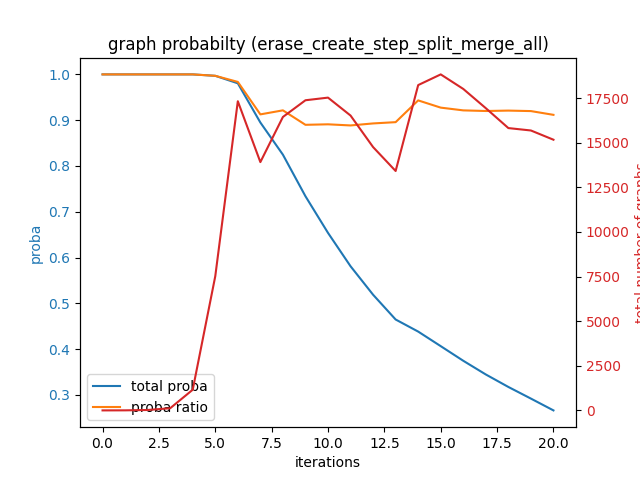
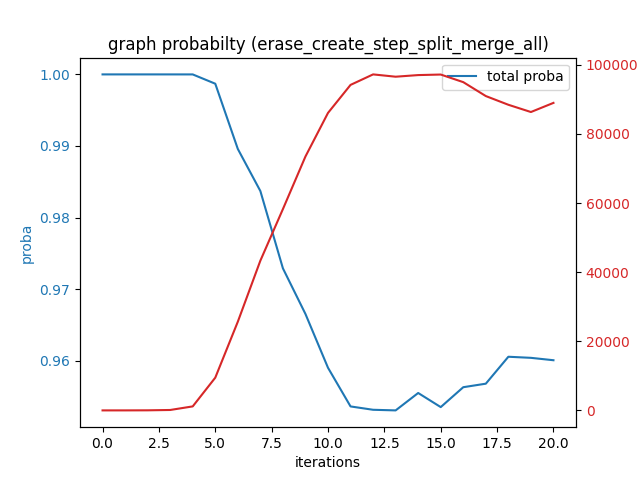
changed the makefile to run program in background

diff --git a/v5/grapher/quantum_grapher.py b/v5/grapher/quantum_grapher.py
@@ -13,7 +13,6 @@ iterations = np.arange(0, n_iterations)
 
 iterations, sizes = np.meshgrid(sizes, iterations)
 
-proba_ratio = np.ones(n_iterations)
 total_proba = np.zeros(n_iterations)
 total_num = np.zeros(n_iterations)
 
@@ -24,9 +23,6 @@ for i in range(n_iterations):
 	probas_ = data["iterations"][i]["probas"]
 	total_proba[i] = sum(probas_)
 	probas_ /= total_proba[i]
-
-	if i > 0:
-		proba_ratio[i] = total_proba[i] / total_proba[i - 1]
 
 	nums_ = data["iterations"][i]["nums"]
 	total_num[i] = sum(nums_)
@@ -70,7 +66,6 @@ color = 'tab:blue'
 color2 = 'tab:red'
 
 ax.plot(total_proba, label="total proba", color=color)
-ax.plot(proba_ratio, label="proba ratio", color='tab:orange')
 ax.legend()
 ax.set_ylabel("proba", color=color)
 ax.tick_params(axis='y', labelcolor=color)

diff --git a/v5/quantum/state.hpp b/v5/quantum/state.hpp
@@ -92,8 +92,6 @@ void state::reduce_all() {
 		    		graphs_.insert({graph, acc});
 	    	}
 	    }
-
-	    buff.clear();
     #else
 		for(auto it = graphs_.begin(); it != graphs_.end();) {
 	    	// range of similar graphs to delete
@@ -127,7 +125,6 @@ void state::discard_all(size_t n_graphs) {
 
 			if (map.size() == n_graphs + 1) {
 				map.erase(map.begin());
-				printf("\nmap %f %f\n", map.begin()->first, std::prev(map.end())->first);
 				threshold_proba = map.begin()->first;
 			}
 		}
@@ -168,8 +165,6 @@ void state::step_all(std::function<tbb::concurrent_vector<std::pair<std::shared_
   			graphs_.insert({graph_, mag_ * mag});
   		}
   	}
-
-  	buff.clear();
 }
 
 //---------------------------------------------------------
